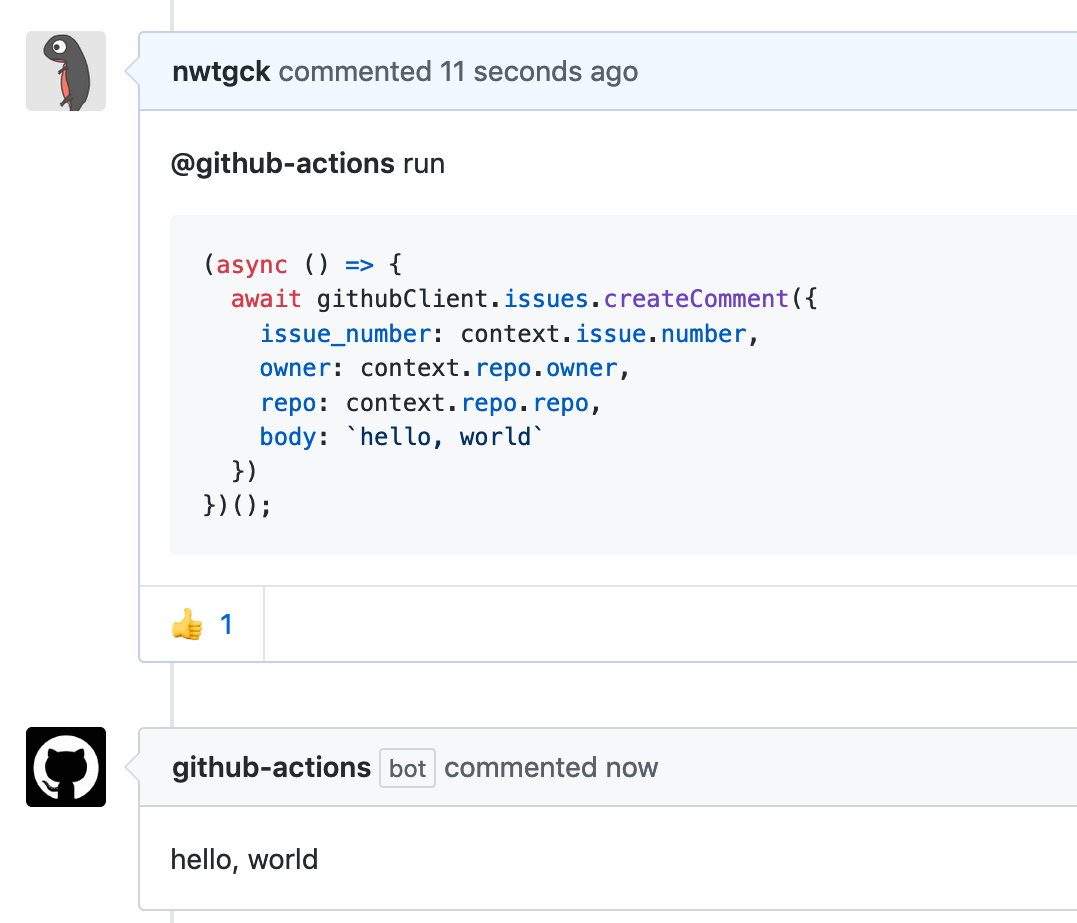
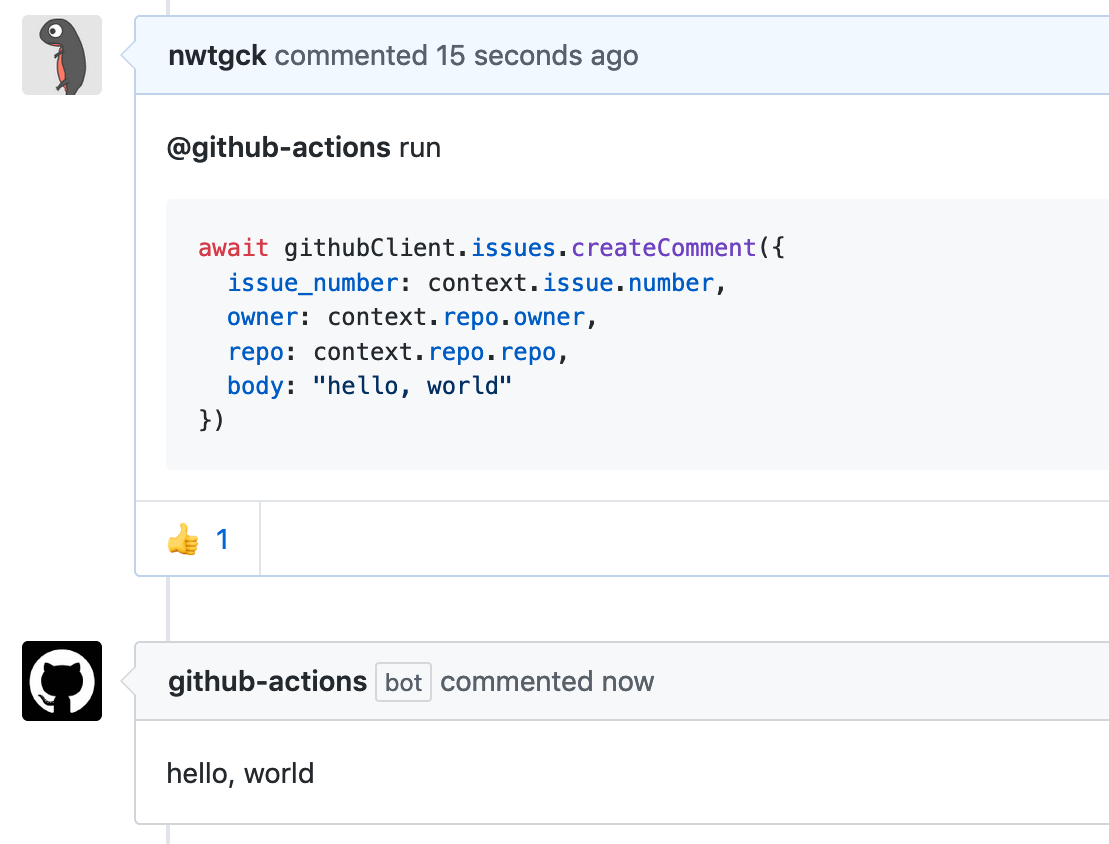
docs: update README.md to use top-level await

diff --git a/README.md b/README.md
@@ -15,9 +15,7 @@ For shorter, you can use as follows.
 @github-actions run
 
 ```js
-(async () => {
-  await postComment("hello, world");
-})();
+await postComment("hello, world");
 ```
 ````
 
@@ -350,10 +348,8 @@ Built bundle .js files are hosted on GitHub Pages. So, your comment will be as f
 @github-actions run
 
 ```js
-(async () => {
-  const url = "https://nwtgck.github.io/comment-run-scripts/hello-world-comment.js";
-  const js = await (await fetch(url)).text();
-  eval(js);
-})();
+const url = "https://nwtgck.github.io/comment-run-scripts/hello-world-comment.js";
+const js = await (await fetch(url)).text();
+eval(js);
 ```
 ````
